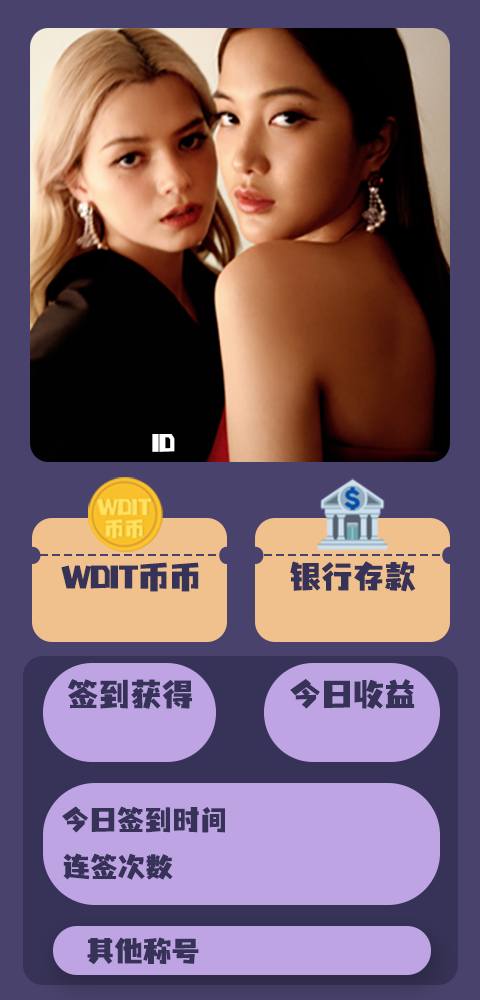
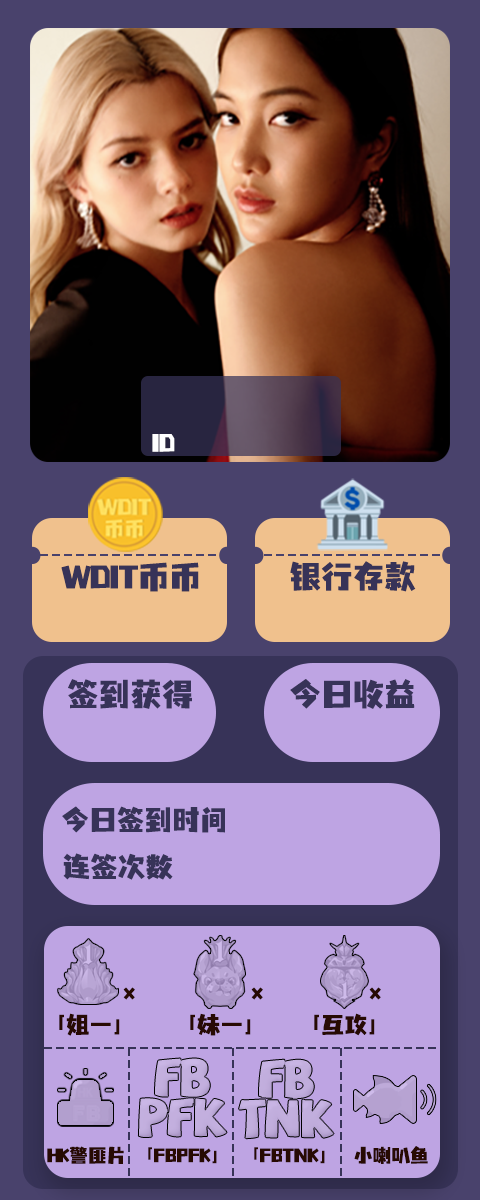
add 徽章标记功能

diff --git a/src/main/kotlin/cn/chahuyun/config/FishSignPluginConfig.kt b/src/main/kotlin/cn/chahuyun/config/FishSignPluginConfig.kt
@@ -1,0 +1,12 @@
+package cn.chahuyun.config
+
+import kotlinx.serialization.Serializable
+import net.mamoe.mirai.console.data.AutoSavePluginConfig
+import net.mamoe.mirai.console.data.ValueDescription
+import java.util.concurrent.ConcurrentHashMap
+
+object FishSignPluginConfig : AutoSavePluginConfig("FishSignPluginConfig") {
+    @ValueDescription("用户兑换徽章信息")
+    @Serializable
+    var fishSignMap: ConcurrentHashMap<String, Set<Long>> =  ConcurrentHashMap();
+}

diff --git a/src/main/java/cn/chahuyun/economy/manager/FbUserManager.java b/src/main/java/cn/chahuyun/economy/manager/FbUserManager.java
@@ -1,6 +1,8 @@
 package cn.chahuyun.economy.manager;
 
+import cn.chahuyun.config.FishSignPluginConfig;
 import cn.chahuyun.economy.HuYanEconomy;
+import cn.chahuyun.economy.constant.FishSignConstant;
 import cn.chahuyun.economy.entity.UserInfo;
 import cn.chahuyun.economy.utils.CacheUtils;
 import cn.chahuyun.economy.utils.EconomyUtil;
@@ -19,8 +21,8 @@ import java.io.ByteArrayInputStream;
 import java.io.ByteArrayOutputStream;
 import java.io.IOException;
 import java.io.InputStream;
-import java.net.URL;
-import java.util.Objects;
+
+import java.util.*;
 
 public class FbUserManager  {
 
@@ -91,12 +93,10 @@ public class FbUserManager  {
     public static BufferedImage getUserInfoImageBaseFb(UserInfo userInfo,Group group) {
 
         User user = userInfo.getUser();
-        String special = "";
         String groupUserName = "";
         if (Objects.nonNull(group)) {
             NormalMember normalMember = group.get(userInfo.getUser().getId());
             if (Objects.nonNull(normalMember)) {
-                special = normalMember.getSpecialTitle();
                 groupUserName = normalMember.getNameCard();
                 if (groupUserName.length() > 11) {
                     groupUserName = groupUserName.substring(0, 11) + "...";
@@ -105,7 +105,7 @@ public class FbUserManager  {
         }
 
         try {
-            int index = RandomUtil.randomInt(4) +1;
+            int index = RandomUtil.randomInt(6) +1;
             InputStream asStream = HuYanEconomy.INPUT_STREAM_MAP.get(index);
             //验证
             if (asStream == null) {
@@ -171,10 +171,6 @@ public class FbUserManager  {
                 pen.drawString(userInfoName, 174, 408);
             }
             // 设置画笔字体样式为黑体，粗体
-
-
-//            pen.setColor(); todo 称号预留
-
             pen.setColor(Color.white);
             fontSize = 20;
             pen.setFont(new Font("黑体", Font.PLAIN, fontSize));
@@ -230,15 +226,65 @@ public class FbUserManager  {
             //写入银行收益金币
             pen.drawString(String.valueOf(bankEarnings), 320, 740);
 
-
-            // 设置特殊称号
-            // special
-            if(!StrUtil.isBlank(special)){
-                fontSize = 20;
-                pen.setFont(new Font("黑体", Font.BOLD, fontSize));
-                pen.drawString(special, 220, 957);
+            // 设置徽章
+            Long fish31 = Optional.ofNullable(userInfo.getBackpacks()).orElse(new ArrayList<>()).stream()
+                    .filter(userBackpack -> Objects.nonNull(userBackpack) &&
+                            FishSignConstant.FISH_31.equals(userBackpack.getPropsCode().toUpperCase(Locale.ROOT))).count();
+            if (fish31 > 0) {
+                drawFishSign(pen, FishSignConstant.FISH_31, fish31, 58, 938, 142, 1000);
+            } else {
+                pen.setFont(new Font("黑体", Font.BOLD, 20));
+                //写入数量
+                pen.drawString(0 + "", 142, 1000);
             }
 
+            Long fish32 = Optional.ofNullable(userInfo.getBackpacks()).orElse(new ArrayList<>()).stream()
+                    .filter(userBackpack -> Objects.nonNull(userBackpack) &&
+                            FishSignConstant.FISH_32.equals(userBackpack.getPropsCode().toUpperCase(Locale.ROOT))).count();
+            if (fish32 > 0) {
+                drawFishSign(pen, FishSignConstant.FISH_32, fish32, 193, 935, 271, 1000);
+            } else {
+                pen.setFont(new Font("黑体", Font.BOLD, 20));
+                //写入数量
+                pen.drawString(0 + "", 271, 1000);
+            }
+            Long fish33 = Optional.ofNullable(userInfo.getBackpacks())
+                    .orElse(new ArrayList<>()).stream()
+                    .filter(userBackpack -> Objects.nonNull(userBackpack) &&
+                            FishSignConstant.FISH_33.equals(userBackpack.getPropsCode().
+                                    toUpperCase(Locale.ROOT))).count();
+            if (fish33 > 0) {
+                drawFishSign(pen, FishSignConstant.FISH_33, fish33, 320, 935, 390, 1000);
+            } else {
+                pen.setFont(new Font("黑体", Font.BOLD, 20));
+                //写入数量
+                pen.drawString(0 + "", 390, 1000);
+            }
+
+            if(Optional.ofNullable(FishSignPluginConfig.INSTANCE.getFishSignMap().get(FishSignConstant.FISH_17))
+                    .orElse(new HashSet<>())
+                    .contains(userInfo.getQq())){
+                drawFishSign(pen, FishSignConstant.FISH_17, null, 56, 1067, 0, 0);
+            }
+
+            if(Optional.ofNullable(FishSignPluginConfig.INSTANCE.getFishSignMap().get(FishSignConstant.FISH_15))
+                    .orElse(new HashSet<>())
+                    .contains(userInfo.getQq())){
+                drawFishSign(pen, FishSignConstant.FISH_15, null, 136, 1056, 0, 0);
+            }
+
+            if(Optional.ofNullable(FishSignPluginConfig.INSTANCE.getFishSignMap().get(FishSignConstant.FISH_16))
+                    .orElse(new HashSet<>())
+                    .contains(userInfo.getQq())){
+                drawFishSign(pen, FishSignConstant.FISH_16, null, 237, 1057, 0, 0);
+            }
+
+            if(Optional.ofNullable(FishSignPluginConfig.INSTANCE.getFishSignMap().get(FishSignConstant.FISH_20))
+                    .orElse(new HashSet<>())
+                    .contains(userInfo.getQq())){
+                drawFishSign(pen, FishSignConstant.FISH_20, null, 352, 1074, 0, 0);
+
+            }
             //关闭窗体，释放部分资源
             pen.dispose();
             return image;
@@ -247,4 +293,30 @@ public class FbUserManager  {
             return null;
         }
     }
+
+    private static void drawFishSign(Graphics2D pen,String key, Long count, int mainX, int mainY,int countX,int countY) {
+        InputStream fishSignStream = HuYanEconomy.SIGN_STREAM_MAP.get(key.toUpperCase(Locale.ROOT));
+        //验证
+        if (fishSignStream == null) {
+            Log.error("徽章管理:获取sign错误!" + key);
+            return;
+        }
+        try {
+            BufferedImage fishImage = ImageIO.read(fishSignStream);
+            fishSignStream.reset();
+            //写入头像
+            pen.drawImage(fishImage, mainX, mainY, null);
+            if(Objects.nonNull(count)){
+                pen.setFont(new Font("黑体", Font.BOLD, 20));
+                //写入数量
+                pen.drawString(count +"", countX, countY);
+            }
+        } catch (IOException e) {
+            Log.error("徽章管理:获取sign错误!" + key);
+            return;
+        }
+
+    }
+
+
 }

diff --git a/src/main/java/cn/chahuyun/economy/manager/PropsManagerImpl.java b/src/main/java/cn/chahuyun/economy/manager/PropsManagerImpl.java
@@ -1,7 +1,9 @@
 package cn.chahuyun.economy.manager;
 
 
+import cn.chahuyun.config.FishSignPluginConfig;
 import cn.chahuyun.economy.aop.PropUtils;
+import cn.chahuyun.economy.constant.FishSignConstant;
 import cn.chahuyun.economy.entity.UserBackpack;
 import cn.chahuyun.economy.entity.UserInfo;
 import cn.chahuyun.economy.entity.fish.FishInfo;
@@ -23,6 +25,7 @@ import org.apache.commons.collections4.CollectionUtils;
 import org.redisson.api.RBloomFilter;
 
 import java.util.*;
+import java.util.concurrent.CopyOnWriteArraySet;
 import java.util.stream.Collectors;
 
 /**
@@ -672,7 +675,16 @@ public class PropsManagerImpl implements PropsManager {
                 subject.sendMessage("系统出错，请联系主人!");
                 return;
             }
-
+            // 兑换成功 加入徽章信息
+            String signCode = propCode.toUpperCase(Locale.ROOT);
+            if (FishSignConstant.getSignPropCode().contains(signCode)) {
+                Set<Long> userList = FishSignPluginConfig.INSTANCE.getFishSignMap().get(signCode);
+                if (CollectionUtils.isEmpty(userList)) {
+                    userList = new CopyOnWriteArraySet<>();
+                }
+                userList.add(userInfo.getQq());
+                FishSignPluginConfig.INSTANCE.getFishSignMap().put(signCode, userList);
+            }
             messages.append(new PlainText(propsInfo.getName() + "兑换成功！请到背包查看"));
             subject.sendMessage(messages.build());
             return;

diff --git a/src/main/java/cn/chahuyun/economy/utils/FileUtils.java b/src/main/java/cn/chahuyun/economy/utils/FileUtils.java
@@ -47,4 +47,27 @@ public class FileUtils {
         return null;
     }
 
+    public static void getSignFishStream() {
+        HuYanEconomy.SIGN_STREAM_MAP.put("FISH-15", getByteArrayInputStream("FISH-15.png"));
+        HuYanEconomy.SIGN_STREAM_MAP.put("FISH-16", getByteArrayInputStream("FISH-16.png"));
+        HuYanEconomy.SIGN_STREAM_MAP.put("FISH-17", getByteArrayInputStream("FISH-17.png"));
+        HuYanEconomy.SIGN_STREAM_MAP.put("FISH-20", getByteArrayInputStream("FISH-20.png"));
+        HuYanEconomy.SIGN_STREAM_MAP.put("FISH-31", getByteArrayInputStream("FISH-31.png"));
+        HuYanEconomy.SIGN_STREAM_MAP.put("FISH-32", getByteArrayInputStream("FISH-32.png"));
+        HuYanEconomy.SIGN_STREAM_MAP.put("FISH-33", getByteArrayInputStream("FISH-33.png"));
+    }
+
+    public static ByteArrayInputStream getByteArrayInputStream(String key) {
+        try {
+            InputStream in = HuYanEconomy.INSTANCE.getResourceAsStream(key);
+            if (Objects.isNull(in)) {
+                return null;
+            }
+            ByteArrayInputStream inputStream = new ByteArrayInputStream(in.readAllBytes());
+            return inputStream;
+        } catch (IOException e) {
+            e.printStackTrace();
+        }
+        return null;
+    }
 }

diff --git a/src/main/java/cn/chahuyun/economy/constant/FishSignConstant.java b/src/main/java/cn/chahuyun/economy/constant/FishSignConstant.java
@@ -1,0 +1,40 @@
+package cn.chahuyun.economy.constant;
+
+import java.util.HashSet;
+import java.util.Set;
+
+public class FishSignConstant {
+
+    // 设置 fish-15 数量 位置
+//            FISH-15	PFPFK
+//            FISH-16	PFTNK
+//            FISH-17	HK警匪片——FreenBecky版
+//            FISH-20	《小喇叭鱼的故事》
+//            FISH-31	姐一徽章
+//            FISH-32	妹一徽章
+//            FISH-33	互攻徽章
+
+    public static final String FISH_31 = "FISH-31";
+
+    public static final String FISH_32 = "FISH-32";
+
+    public static final String FISH_33 = "FISH-33";
+
+
+    public static final String FISH_17 = "FISH-17";
+
+    public static final String FISH_15 = "FISH-15";
+
+    public static final String FISH_16 = "FISH-16";
+
+    public static final String FISH_20 = "FISH-20";
+
+    public static Set<String> getSignPropCode(){
+        HashSet<String> strings = new HashSet<>(4);
+        strings.add(FISH_17);
+        strings.add(FISH_15);
+        strings.add(FISH_16);
+        strings.add(FISH_20);
+        return strings;
+    }
+}

diff --git a/src/main/java/cn/chahuyun/economy/HuYanEconomy.java b/src/main/java/cn/chahuyun/economy/HuYanEconomy.java
@@ -40,6 +40,8 @@ public final class HuYanEconomy extends JavaPlugin {
 
     public static final ConcurrentHashMap<Integer, InputStream> INPUT_STREAM_MAP = new ConcurrentHashMap<>();
 
+    public static final ConcurrentHashMap<String, InputStream> SIGN_STREAM_MAP = new ConcurrentHashMap<>();
+
     /**
      * 插件所属bot
      */
@@ -69,13 +71,15 @@ public final class HuYanEconomy extends JavaPlugin {
         reloadPluginConfig(EconomyPluginConfig.INSTANCE);
         reloadPluginConfig(EconomyEventConfig.INSTANCE);
         reloadPluginConfig(DriverCarEventConfig.INSTANCE);
-        //
+        // 自动钓鱼机
         reloadPluginConfig(AutomaticFishConfig.INSTANCE);
-
+        // 用户徽章信息
+        reloadPluginConfig(FishSignPluginConfig.INSTANCE);
         // 加载文件流
-        for (int i = 1; i < 5; i++) {
+        for (int i = 1; i < 7; i++) {
             FileUtils.getInputStream(i);
         }
+        FileUtils.getSignFishStream();
         config = EconomyConfig.INSTANCE;
         //插件功能初始化
         PluginManager.init();

diff --git a/src/main/java/cn/chahuyun/economy/utils/CacheUtils.java b/src/main/java/cn/chahuyun/economy/utils/CacheUtils.java
@@ -56,8 +56,8 @@ public class CacheUtils {
                 url2g = new URL(avatarUrl);
                 //设置连接超时的时间
                 urlCon2g = (HttpURLConnection) url2g.openConnection();
-                urlCon2g.setConnectTimeout(3000);
-                urlCon2g.setReadTimeout(5000);
+                urlCon2g.setConnectTimeout(1000);
+                urlCon2g.setReadTimeout(2000);
 
                 InputStream inputStream = null;
                 inputStream = urlCon2g.getInputStream();
